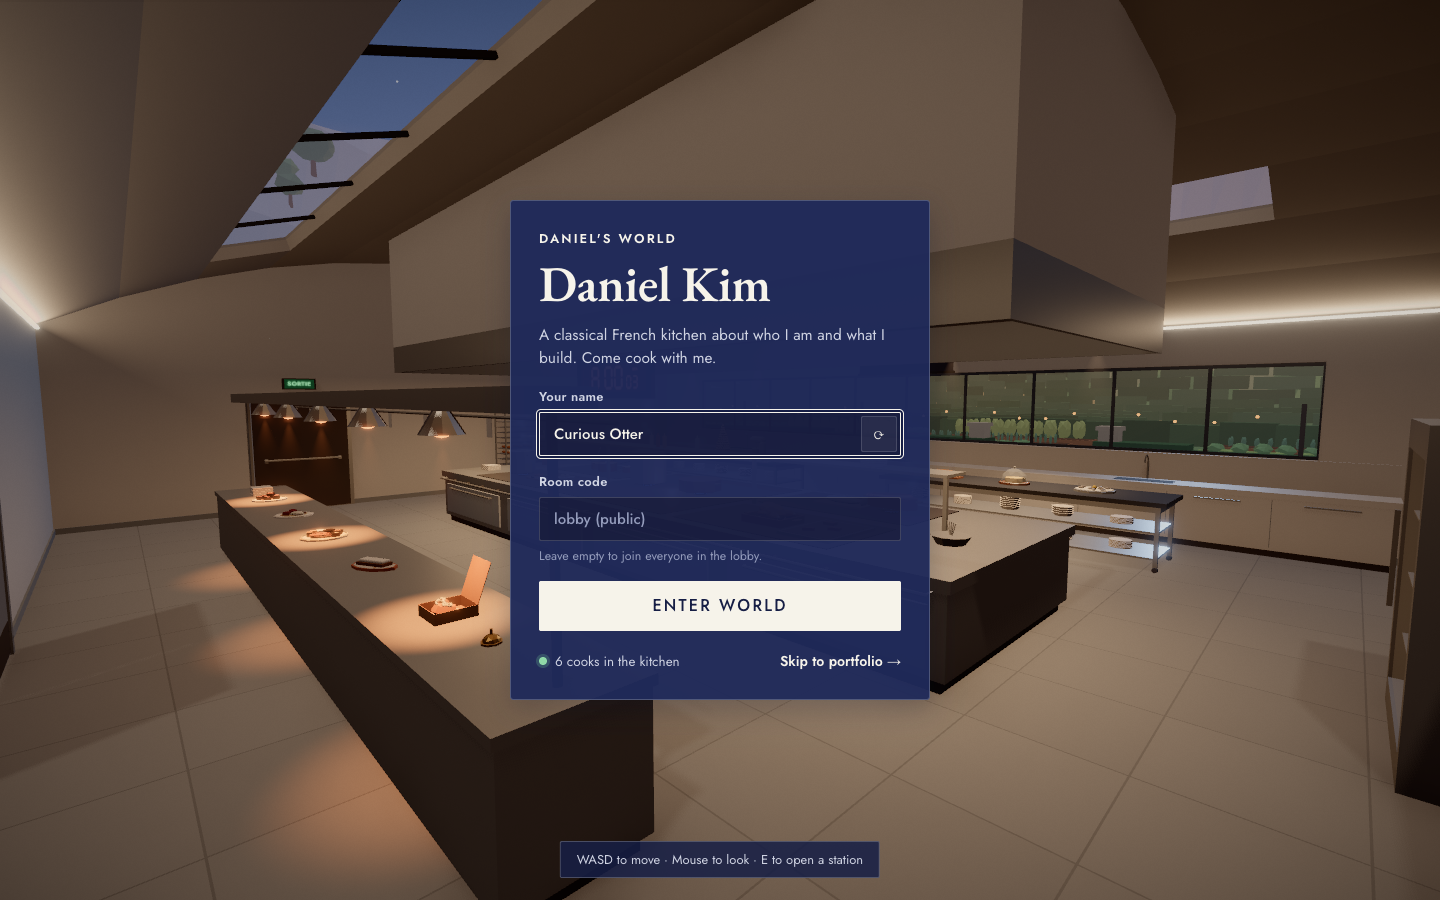
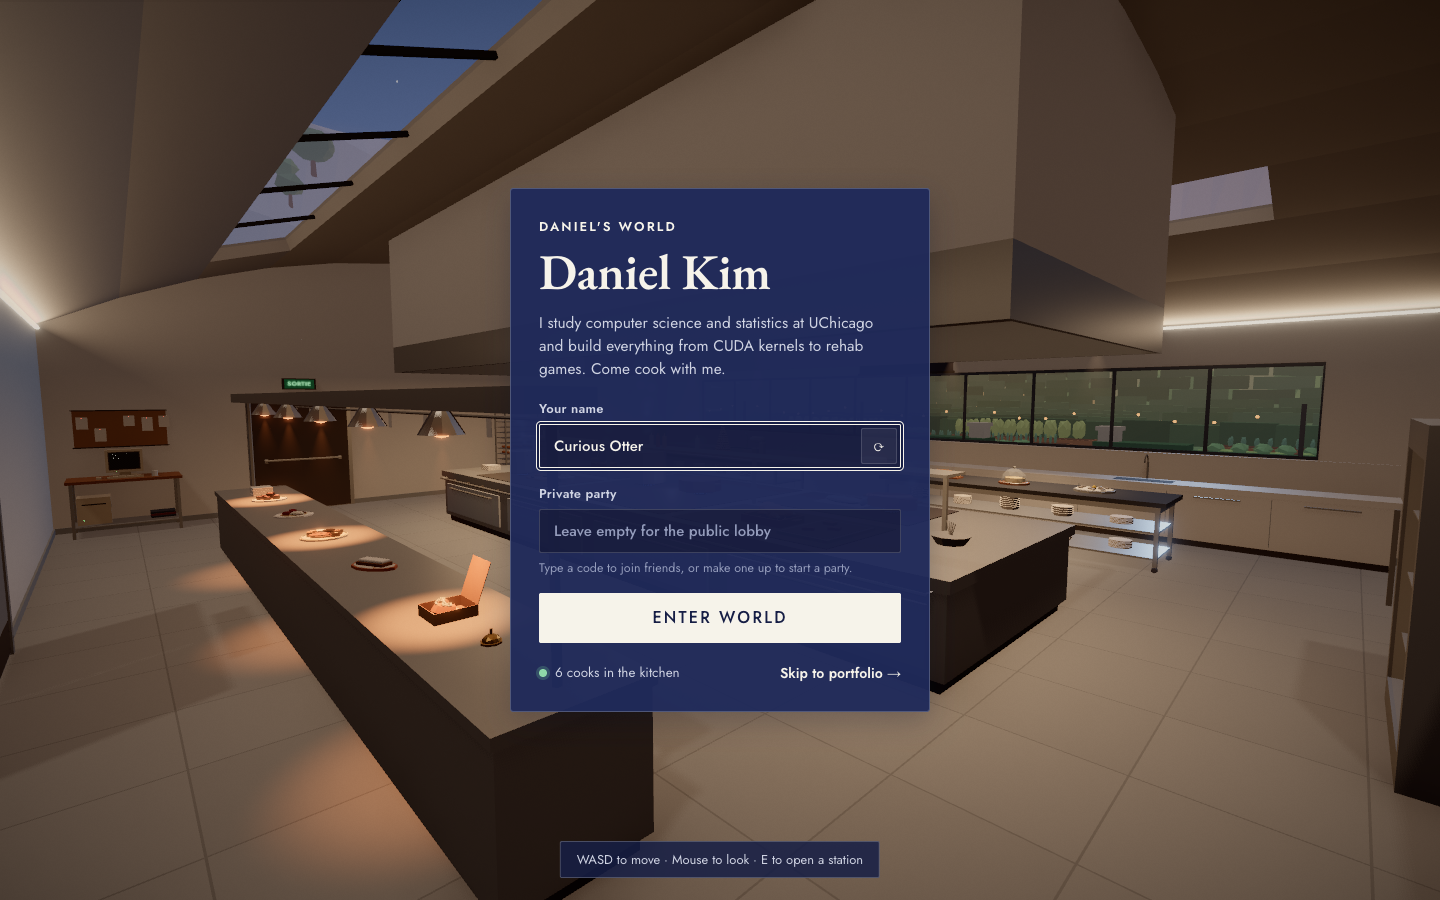
Show the kitchen computer in the screenshots, and refresh them

Changed region(s): [[0.3438, 0.1867, 0.6562, 0.8089], [0.0312, 0.4356, 0.125, 0.5911]]

diff --git a/scripts/screenshots.ts b/scripts/screenshots.ts
@@ -170,6 +170,25 @@ async function main(): Promise<void> {
     await thrower.waitForTimeout(700);
     await thrower.screenshot({ path: `${outDir}/inspect.png` });
 
+    // The kitchen computer in the south-west corner, booted into DOOM's first level.
+    const gamer = await context.newPage();
+    await enter(gamer, 'Gamer', 'docs-computer');
+    await gamer.keyboard.press('KeyQ'); // the bare hand, so a stray click punches, not throws
+    await walkUntil(gamer, 'KeyA', (p) => p.x < -6.2);
+    await turnTo(gamer, Math.PI / 2, -0.32);
+    await gamer.mouse.move(720, 450);
+    await gamer.getByText('Press E to play DOOM').waitFor();
+    await gamer.waitForTimeout(400);
+    await gamer.screenshot({ path: `${outDir}/computer-desk.png` });
+    await gamer.keyboard.press('KeyE');
+    await gamer.waitForFunction(() => window.__world!.computer.frames > 60);
+    for (const key of ['Enter', 'Enter', 'Enter', 'Enter']) {
+      await gamer.keyboard.press(key);
+      await gamer.waitForTimeout(600);
+    }
+    await gamer.waitForTimeout(1500);
+    await gamer.screenshot({ path: `${outDir}/computer-doom.png` });
+
     await page.goto(`${clientUrl}/portfolio.html`);
     await page.screenshot({ path: `${outDir}/portfolio.png`, fullPage: true });
     const phone = await browser.newContext({

diff --git a/README.md b/README.md
@@ -114,6 +114,8 @@ Measured with `node scripts/perf.ts` on an Apple M5 laptop with 16 players in on
 The beige PC on the chef's desk, in the south-west corner, runs the original DOOM (press E at it; Esc steps away, the backquote key opens DOOM's menu).
 It is not a port to the browser but a small computer of its own:
 
+![DOOM on the kitchen computer](docs/screenshots/computer-doom.png)
+
 - **A RISC-V (RV32IM) CPU emulator in TypeScript** (`apps/client/src/computer/`), with 32 MiB of RAM and memory-mapped devices: a 320x200 8-bit framebuffer and palette, a keyboard queue, a millisecond timer, a console and a disk window holding the WAD. The ABI is one header, `firmware/include/machine.h`, mirrored in `abi.ts` and checked by a test.
 - **DOOM cross-compiled bare metal for it** (`firmware/`): the vendored `doomgeneric` (GPLv2) with a platform layer for those devices, a freestanding libc written for it (strings, a malloc over the linker script's heap, printf and scanf as far as DOOM needs, 64-bit division, an in-memory file system with the WAD mounted read-only), `crt0.S` and a linker script that leaves page 0 unmapped so null pointers fault.
 - **Two engines**: a reference interpreter, and a JIT that compiles regions of RISC-V into JavaScript functions, guest registers in locals and self-loops as native loops. Measured in Chromium on an Apple M5, the JIT runs DOOM's timedemo at about 3.2 billion guest instructions a second (the interpreter about 180 million); live play needs under 40 million, about 2% of a core. It runs in a Web Worker, so the kitchen's frame budget is untouched.
